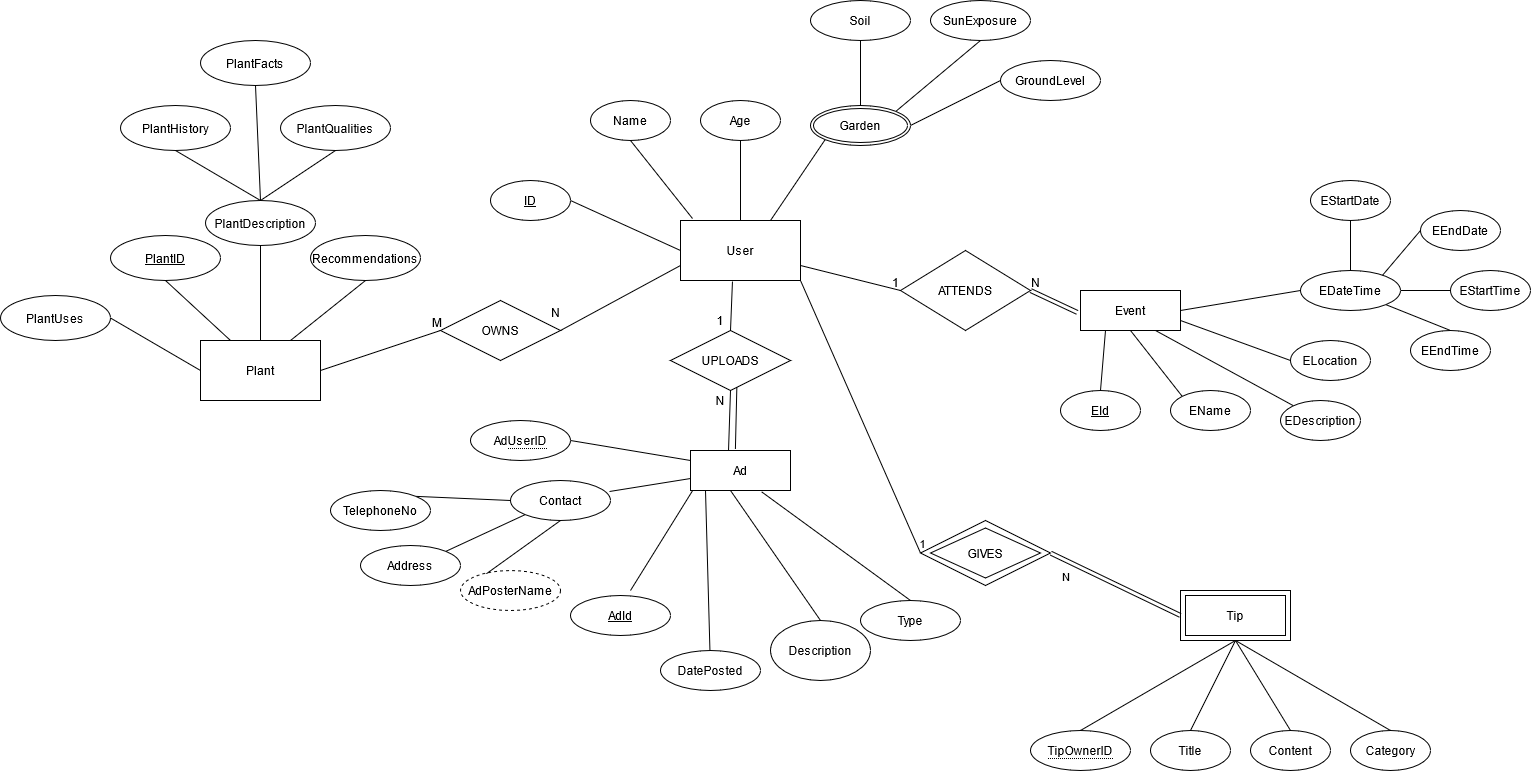
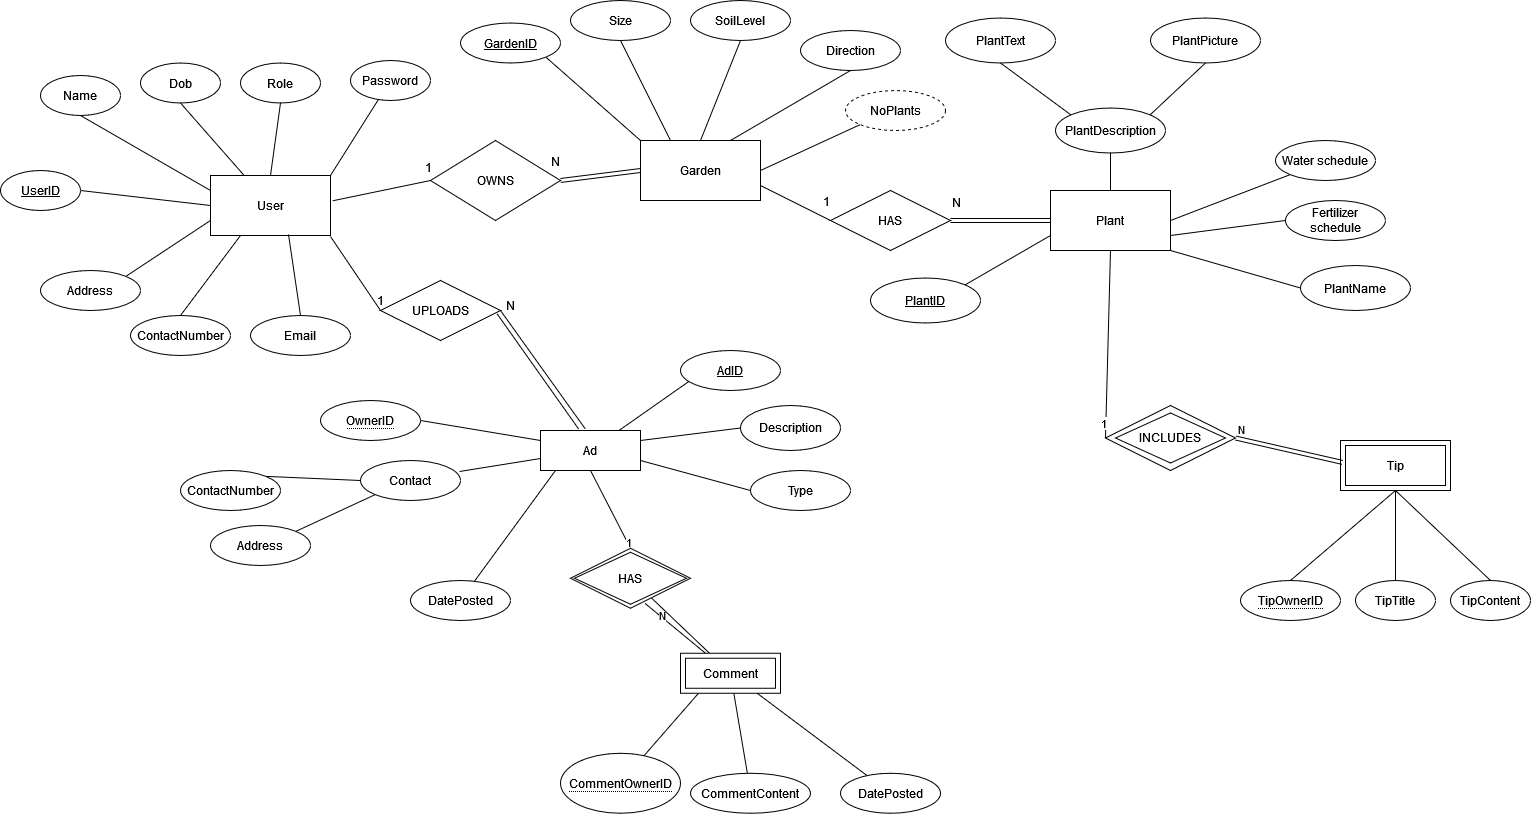
add new er and page descriptions

diff --git a/README.md b/README.md
@@ -65,20 +65,17 @@ We are making this system to help gardeners in Sweden who want to keep the garde
 
 ### Pages
 
-* Home: This page will show the features of our system, highlighting the products and services stores page, the events page, the advertisement board page, plant wikipedia page, and our gardening tips page. The user is able to navigate to these pages or login/create an account.
+* Home: This page will show all key features of our system i.e. the garden, the advertisement, the login and the gallery page. The user is able to navigate to the individual feature’s pages. The page will also show whether the user is logged in or not and if logged in, a button for logging out.
 
-*  Account/Login: This page will allow users to log into the application and create their account. To create an account it will only ask for a username, password and your location, however It only requires your username and password to log in. The user then has the option to put more information about themselves in the account page.
+*  Account/Login: This page will allow users to create a user account or login to the system. It will also show options like “forget username” and “forget password”. To create an account, the system will ask for a username, password and an email. The rest of the fields  (such as date of birth, contact number etc.) will be optional and can be filled in any time later on.
 
-* Products and Services Stores: The page will show off the product or service store you search for based on your area, through a map.
+* Advertisements: This page will have listings of local services or tools offered. The user will be able to post an advertisement offering something or asking for something. Registered users may post their own advertisements here. Registered users can also comment on any advertisements that are posted. Non-registered users can only view advertisements.
 
-* Events: This page will show information about gardening social events in Sweden and a user will be able to search events if gps/location is enabled. To be able to register for an event, the user should be logged in and if the user is not logged in, a button takes the user to the login page.
+* Gardens: All users can view other posted gardens showing details about the size, soil, and number of plants. Only registered users can create or edit their own garden. The user can navigate to each individual garden to view more details.
 
-* Advertisement Board: This page will have listings of local services or tools offered. Registered users may post their own ad here.
+* Plants: Within a user’s garden, all plants are shown. Each plant is shown with an image, name and description, along with schedules for water/ fertilizer. Users can write a tip for the plant and have an option to view all tips pertaining to that specific plant.
 
-* Plant Wikipedia: This page will act as wikipedia for plants. Users will be able to search and go to relevant information pages just like wikipedia. The page will allow the user to take or add a pic of the plant and the system will search for a relevant information page.
-
-* Gardening Tips: This page will have the latest tips from users that have posted their experiences with their gardens, as well as the recommendations that the system gives to all users. The user will have the option to choose from who they read the tips from: the other gardeners or the gardening system.
-
+* Tips: Users can search and view all tips in the system on this page.
 
 ### Entity-Relationship (ER) Diagram
 
